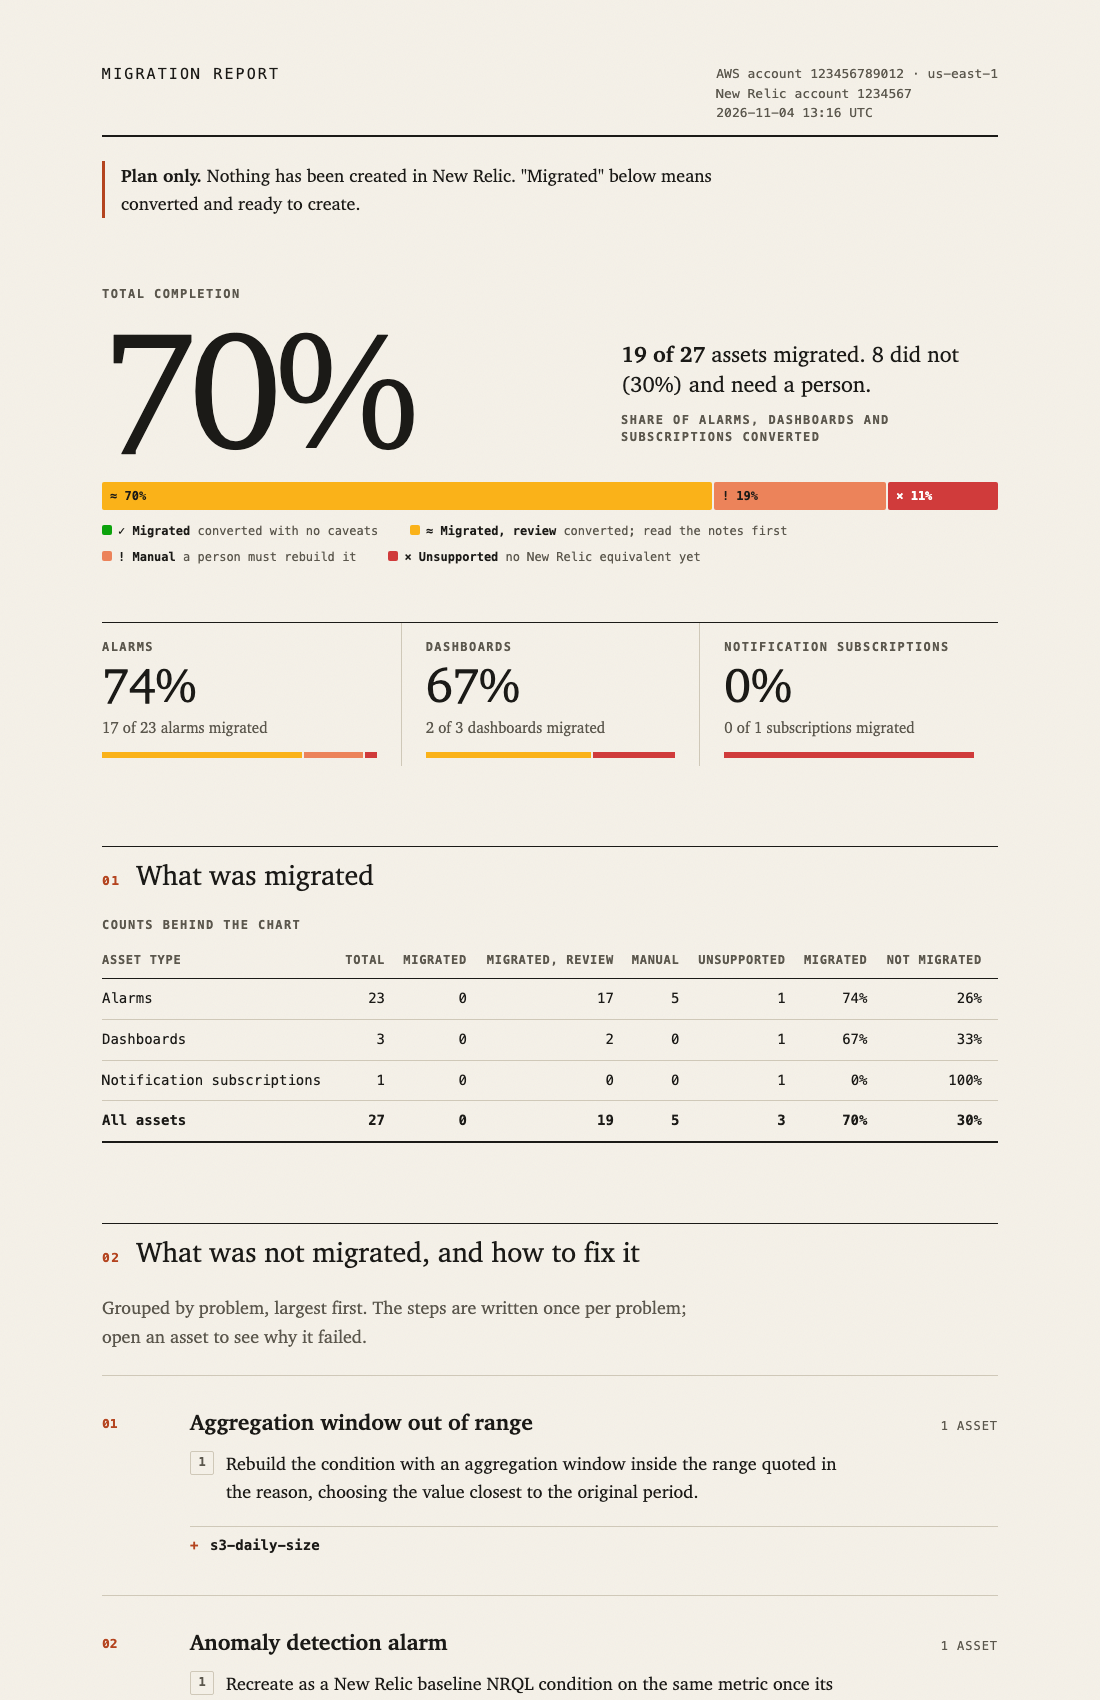
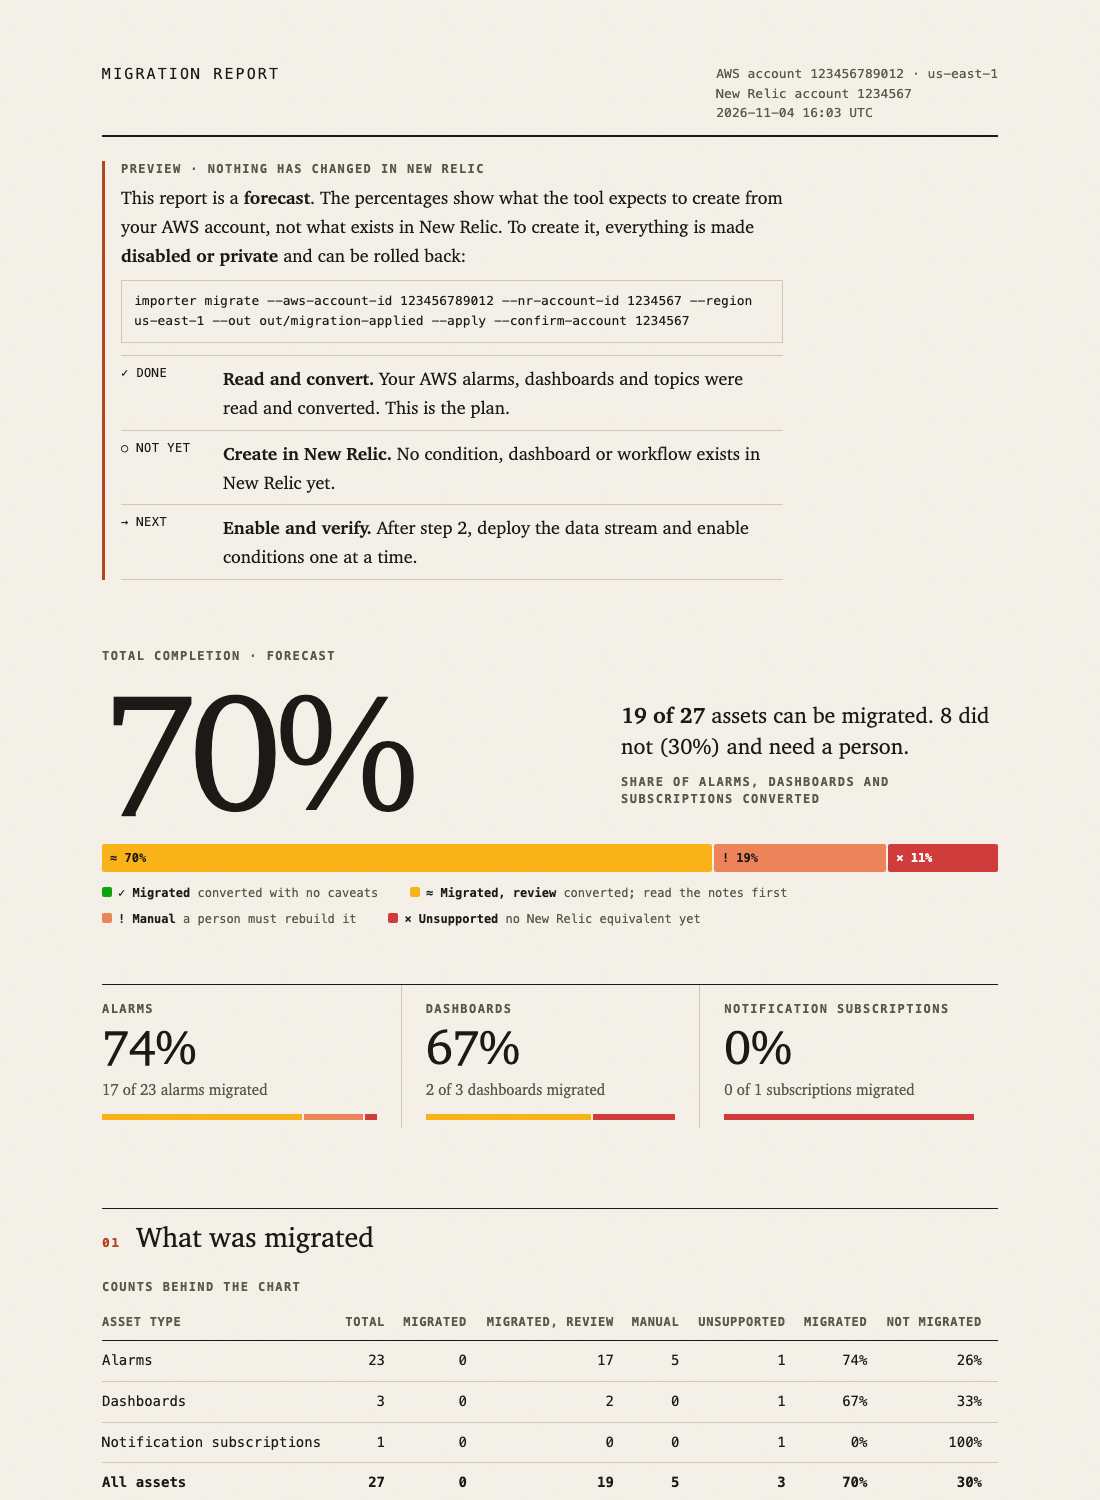
Report: forecast vs applied, and count what New Relic refused as not migrated
The Plan-only banner is replaced by a Preview banner with the create command and a three-step status; after apply the report describes what was created and lists refusals.

diff --git a/src/importer/core/report_html.py b/src/importer/core/report_html.py
@@ -59,8 +59,15 @@ color:var(--ink2)}
 border-bottom:2px solid var(--ink);padding-bottom:12px}
 h1{font:400 15px/1.4 var(--mono);letter-spacing:.14em;text-transform:uppercase;margin:0}
 .where{font:13px/1.5 var(--mono);color:var(--ink2);margin:0}
-.state{margin:24px 0 0;padding-left:16px;border-left:3px solid var(--accent);max-width:62ch}
+.state{margin:24px 0 0;padding-left:16px;border-left:3px solid var(--accent);max-width:68ch}
 .state b{font-weight:700}
+.state p{margin:6px 0}
+.cmd{font-family:var(--mono);font-size:13px;margin:10px 0;padding:10px 12px;overflow-x:auto;
+white-space:pre-wrap;word-break:break-word;border:1px solid var(--rule);background:transparent}
+.stages{list-style:none;margin:12px 0 0;padding:0;border-top:1px solid var(--rule)}
+.stages li{display:grid;grid-template-columns:9ch 1fr;gap:12px;padding:8px 0;
+border-bottom:1px solid var(--rule)}
+.stages .mark{font-family:var(--mono);font-size:12px;text-transform:uppercase;letter-spacing:.04em}
 .hero{display:grid;grid-template-columns:minmax(0,5fr) minmax(0,4fr);gap:48px;
 align-items:end;margin:56px 0 24px}
 .big{font:400 clamp(96px,17vw,168px)/.85 var(--serif);letter-spacing:-.04em;margin:0}
@@ -265,17 +272,79 @@ def _group(group: Group, number: int) -> str:
     )
 
 
-def _state(summary: Summary) -> str:
+def _stage(mark: str, name: str, text: str) -> str:
+    return f'<li><span class="mark">{mark}</span><span><b>{name}</b> {text}</span></li>'
+
+
+def _state(summary: Summary, aws_account: str, nr_account: int | None, region: str) -> str:
+    """Where the migration stands: what has happened, what has not, and the next command."""
+    nr = str(nr_account) if nr_account else "&lt;new relic account id&gt;"
+    aws = e(aws_account, 20) if aws_account else "&lt;aws account id&gt;"
+    area = e(region, 30) if region else "us-east-1"
     if summary.created is None:
-        return (
-            '<p class="state"><b>Plan only.</b> Nothing has been created in New Relic. '
-            '"Migrated" below means converted and ready to create.</p>'
+        create = (
+            f"importer migrate --aws-account-id {aws} --nr-account-id {nr} --region {area} "
+            f"--out out/migration-applied --apply --confirm-account {nr}"
         )
-    made = ", ".join(f"{n} {kind}" for kind, n in sorted(summary.created.items())) or "nothing"
+        stages = (
+            _stage(
+                "✓ Done",
+                "Read and convert.",
+                "Your AWS alarms, dashboards and topics were read and converted. This is the plan.",
+            )
+            + _stage(
+                "○ Not yet",
+                "Create in New Relic.",
+                "No condition, dashboard or workflow exists in New Relic yet.",
+            )
+            + _stage(
+                "→ Next",
+                "Enable and verify.",
+                "After step 2, deploy the data stream and enable conditions one at a time.",
+            )
+        )
+        return (
+            '<section class="state"><p class="label">Preview · nothing has changed in New Relic'
+            "</p>"
+            "<p>This report is a <b>forecast</b>. The percentages show what the tool expects to "
+            "create from your AWS account, not what exists in New Relic. To create it, "
+            "everything is made <b>disabled or private</b> and can be rolled back:</p>"
+            f'<pre class="cmd">{create}</pre>'
+            f'<ol class="stages">{stages}</ol></section>'
+        )
+    plural = {"policy": "policies"}
+    made = (
+        ", ".join(
+            f"{n} {kind if n == 1 else plural.get(kind, kind + 's')}"
+            for kind, n in sorted(summary.created.items())
+        )
+        or "nothing"
+    )
+    refused = (
+        f" New Relic refused <b>{summary.refused}</b>; those count as not migrated and are "
+        "listed below with the reason."
+        if summary.refused
+        else ""
+    )
+    undo = (
+        f"importer rollback --manifest &lt;run folder&gt;/manifest.json --account-id {nr} "
+        f"--apply --confirm-account {nr}"
+    )
+    stages = (
+        _stage("✓ Done", "Read and convert.", "Alarms, dashboards and topics were converted.")
+        + _stage("✓ Done", "Create in New Relic.", f"Created {e(made)}.{refused}")
+        + _stage(
+            "→ Your turn",
+            "Enable and verify.",
+            "Nothing is switched on yet; follow the checklist at the end.",
+        )
+    )
     return (
-        f'<p class="state"><b>Created in New Relic:</b> {e(made)}. Conditions and workflows were '
-        "created disabled and dashboards private; <code>importer rollback</code> removes "
-        "exactly these.</p>"
+        '<section class="state"><p class="label">Applied · created in New Relic</p>'
+        "<p>The numbers below are what <b>was created</b>. Conditions and workflows are "
+        "disabled and dashboards are private. To remove exactly these objects:</p>"
+        f'<pre class="cmd">{undo}</pre>'
+        f'<ol class="stages">{stages}</ol></section>'
     )
 
 
@@ -334,10 +403,13 @@ def render_report(
         chart = '<p class="intro">Nothing was found to migrate.</p>'
     else:
         rest = total - done
+        forecast = summary.created is None
+        word = "can be migrated" if forecast else "migrated"
         hero = (
-            f'<div class="hero"><div><p class="label">Total completion</p>'
+            '<div class="hero"><div><p class="label">Total completion'
+            f"{' · forecast' if forecast else ''}</p>"
             f'<p class="big">{percent(done, total)}%</p></div><div>'
-            f'<p class="lede"><b>{done} of {total}</b> assets migrated. '
+            f'<p class="lede"><b>{done} of {total}</b> assets {word}. '
             f"{rest} did not ({percent(rest, total)}%) and need a person.</p>"
             '<p class="label">Share of alarms, dashboards and subscriptions converted</p>'
             "</div></div>"
@@ -377,7 +449,7 @@ def render_report(
         "<title>Migration report</title>"
         f"<style>{CSS}</style></head><body><main>"
         f'<div class="masthead"><h1>Migration report</h1><p class="where">{where}</p></div>'
-        f"{_state(summary)}{hero}{chart}{_ledger(summary)}"
+        f"{_state(summary, aws_account, nr_account, region)}{hero}{chart}{_ledger(summary)}"
         f"{''.join(sections)}"
         "<footer><p><b>How this is counted.</b> One alarm, one dashboard, or one notification "
         "subscription is one asset. Migrated means converted exactly or approximately; manual "

diff --git a/src/importer/core/migration_summary.py b/src/importer/core/migration_summary.py
@@ -54,6 +54,7 @@ class Group:
 class Summary:
     assets: list[Asset]
     created: dict[str, int] | None  # object kind -> count, from the manifest; None = plan only
+    refused: int = 0  # objects New Relic refused to create (they count as not migrated)
 
     def of(self, kind: Kind) -> list[Asset]:
         return [a for a in self.assets if a.kind == kind]
@@ -68,6 +69,12 @@ class Summary:
         if total == 0:
             return "Total completion: nothing found to migrate"
         done = counts[Confidence.EXACT] + counts[Confidence.APPROXIMATE]
+        if self.created is None:
+            return (
+                f"Total completion (forecast): {percent(done, total)}% "
+                f"({done} of {total} assets can be migrated, {total - done} need manual work; "
+                "nothing has been created in New Relic yet)"
+            )
         return (
             f"Total completion: {percent(done, total)}% "
             f"({done} of {total} assets migrated, {total - done} need manual work)"
@@ -180,10 +187,37 @@ def _created(run: Path) -> dict[str, int] | None:
     return dict(Counter(o.kind for o in manifest.objects))
 
 
+REFUSED = "could not be created in New Relic"
+
+
+def _refused(run: Path) -> int:
+    path = run / "manifest.json"
+    return len(load_manifest(path).failed) if path.is_file() else 0
+
+
+def _mark_refused(run: Path, assets: list[Asset]) -> None:
+    """An asset New Relic refused to create is not migrated, whatever the conversion said."""
+    path = run / "manifest.json"
+    if not path.is_file():
+        return
+    asset_kind = {"condition": "alarm", "dashboard": "dashboard"}
+    refused = {
+        (asset_kind[f.kind], f.name): f.reason
+        for f in load_manifest(path).failed
+        if f.kind in asset_kind
+    }
+    for asset in assets:
+        reason = refused.get((asset.kind, asset.name))
+        if reason is not None and asset.migrated:
+            asset.confidence = Confidence.MANUAL
+            asset.reasons.insert(0, f"{REFUSED}: {printable(reason, 150)}")
+
+
 def load_summary(run: Path) -> Summary:
     """Read a `migrate --out` folder. Raises OSError/ValueError on unreadable input."""
     try:
         assets = [*_alarms(run), *_dashboards(run), *_notifications(run)]
-        return Summary(assets, _created(run))
+        _mark_refused(run, assets)
+        return Summary(assets, _created(run), _refused(run))
     except json.JSONDecodeError as exc:
         raise ValueError(f"unreadable JSON in {run}: {exc.msg}") from None

diff --git a/tests/test_migration_report.py b/tests/test_migration_report.py
@@ -96,11 +96,20 @@ def test_rich_escapes_before_adding_code_tags() -> None:
     assert e("<b>") == "&lt;b&gt;"
 
 
-def test_plan_only_and_created_banners() -> None:
-    assert "Plan only" in render_report(Summary([], None))
-    created = render_report(Summary([], {"condition": 3, "workflow": 1}))
-    assert "3 condition" in created
-    assert "Plan only" not in created
+def test_preview_and_applied_banners() -> None:
+    preview = render_report(Summary([], None), aws_account="123456789012", nr_account=7)
+    assert "Preview" in preview and "forecast" in preview
+    assert "--apply --confirm-account 7" in preview and "--aws-account-id 123456789012" in preview
+    applied = render_report(Summary([], {"condition": 3, "workflow": 1}, refused=2), nr_account=7)
+    assert "3 conditions, 1 workflow" in applied and "refused <b>2</b>" in applied
+    assert "importer rollback" in applied and "Preview" not in applied
+
+
+def test_the_hero_says_forecast_until_something_is_created() -> None:
+    assets = [Asset("alarm", "a", "metric alarm", Confidence.APPROXIMATE)]
+    assert "can be migrated" in render_report(Summary(assets, None))
+    applied = render_report(Summary(assets, {"condition": 1}))
+    assert "can be migrated" not in applied and "assets migrated" in applied
 
 
 def test_empty_run_does_not_divide_by_zero() -> None:
@@ -130,12 +139,16 @@ def test_headline_states_total_completion() -> None:
         Asset("alarm", "c", "metric alarm", Confidence.MANUAL),
         Asset("dashboard", "d", "dashboard", Confidence.UNSUPPORTED),
     ]
-    assert Summary(assets, None).headline() == (
+    assert Summary(assets, {"condition": 2}).headline() == (
         "Total completion: 50% (2 of 4 assets migrated, 2 need manual work)"
+    )
+    assert Summary(assets, None).headline() == (
+        "Total completion (forecast): 50% (2 of 4 assets can be migrated, 2 need manual work; "
+        "nothing has been created in New Relic yet)"
     )
     assert "nothing found" in Summary([], None).headline()
 
 
 def test_cli_report_prints_the_headline(run_dir: Path, tmp_path: Path) -> None:
     result = CliRunner().invoke(app, ["report", str(run_dir), "--out", str(tmp_path / "r.html")])
-    assert "Total completion:" in result.output
+    assert "Total completion (forecast):" in result.output
